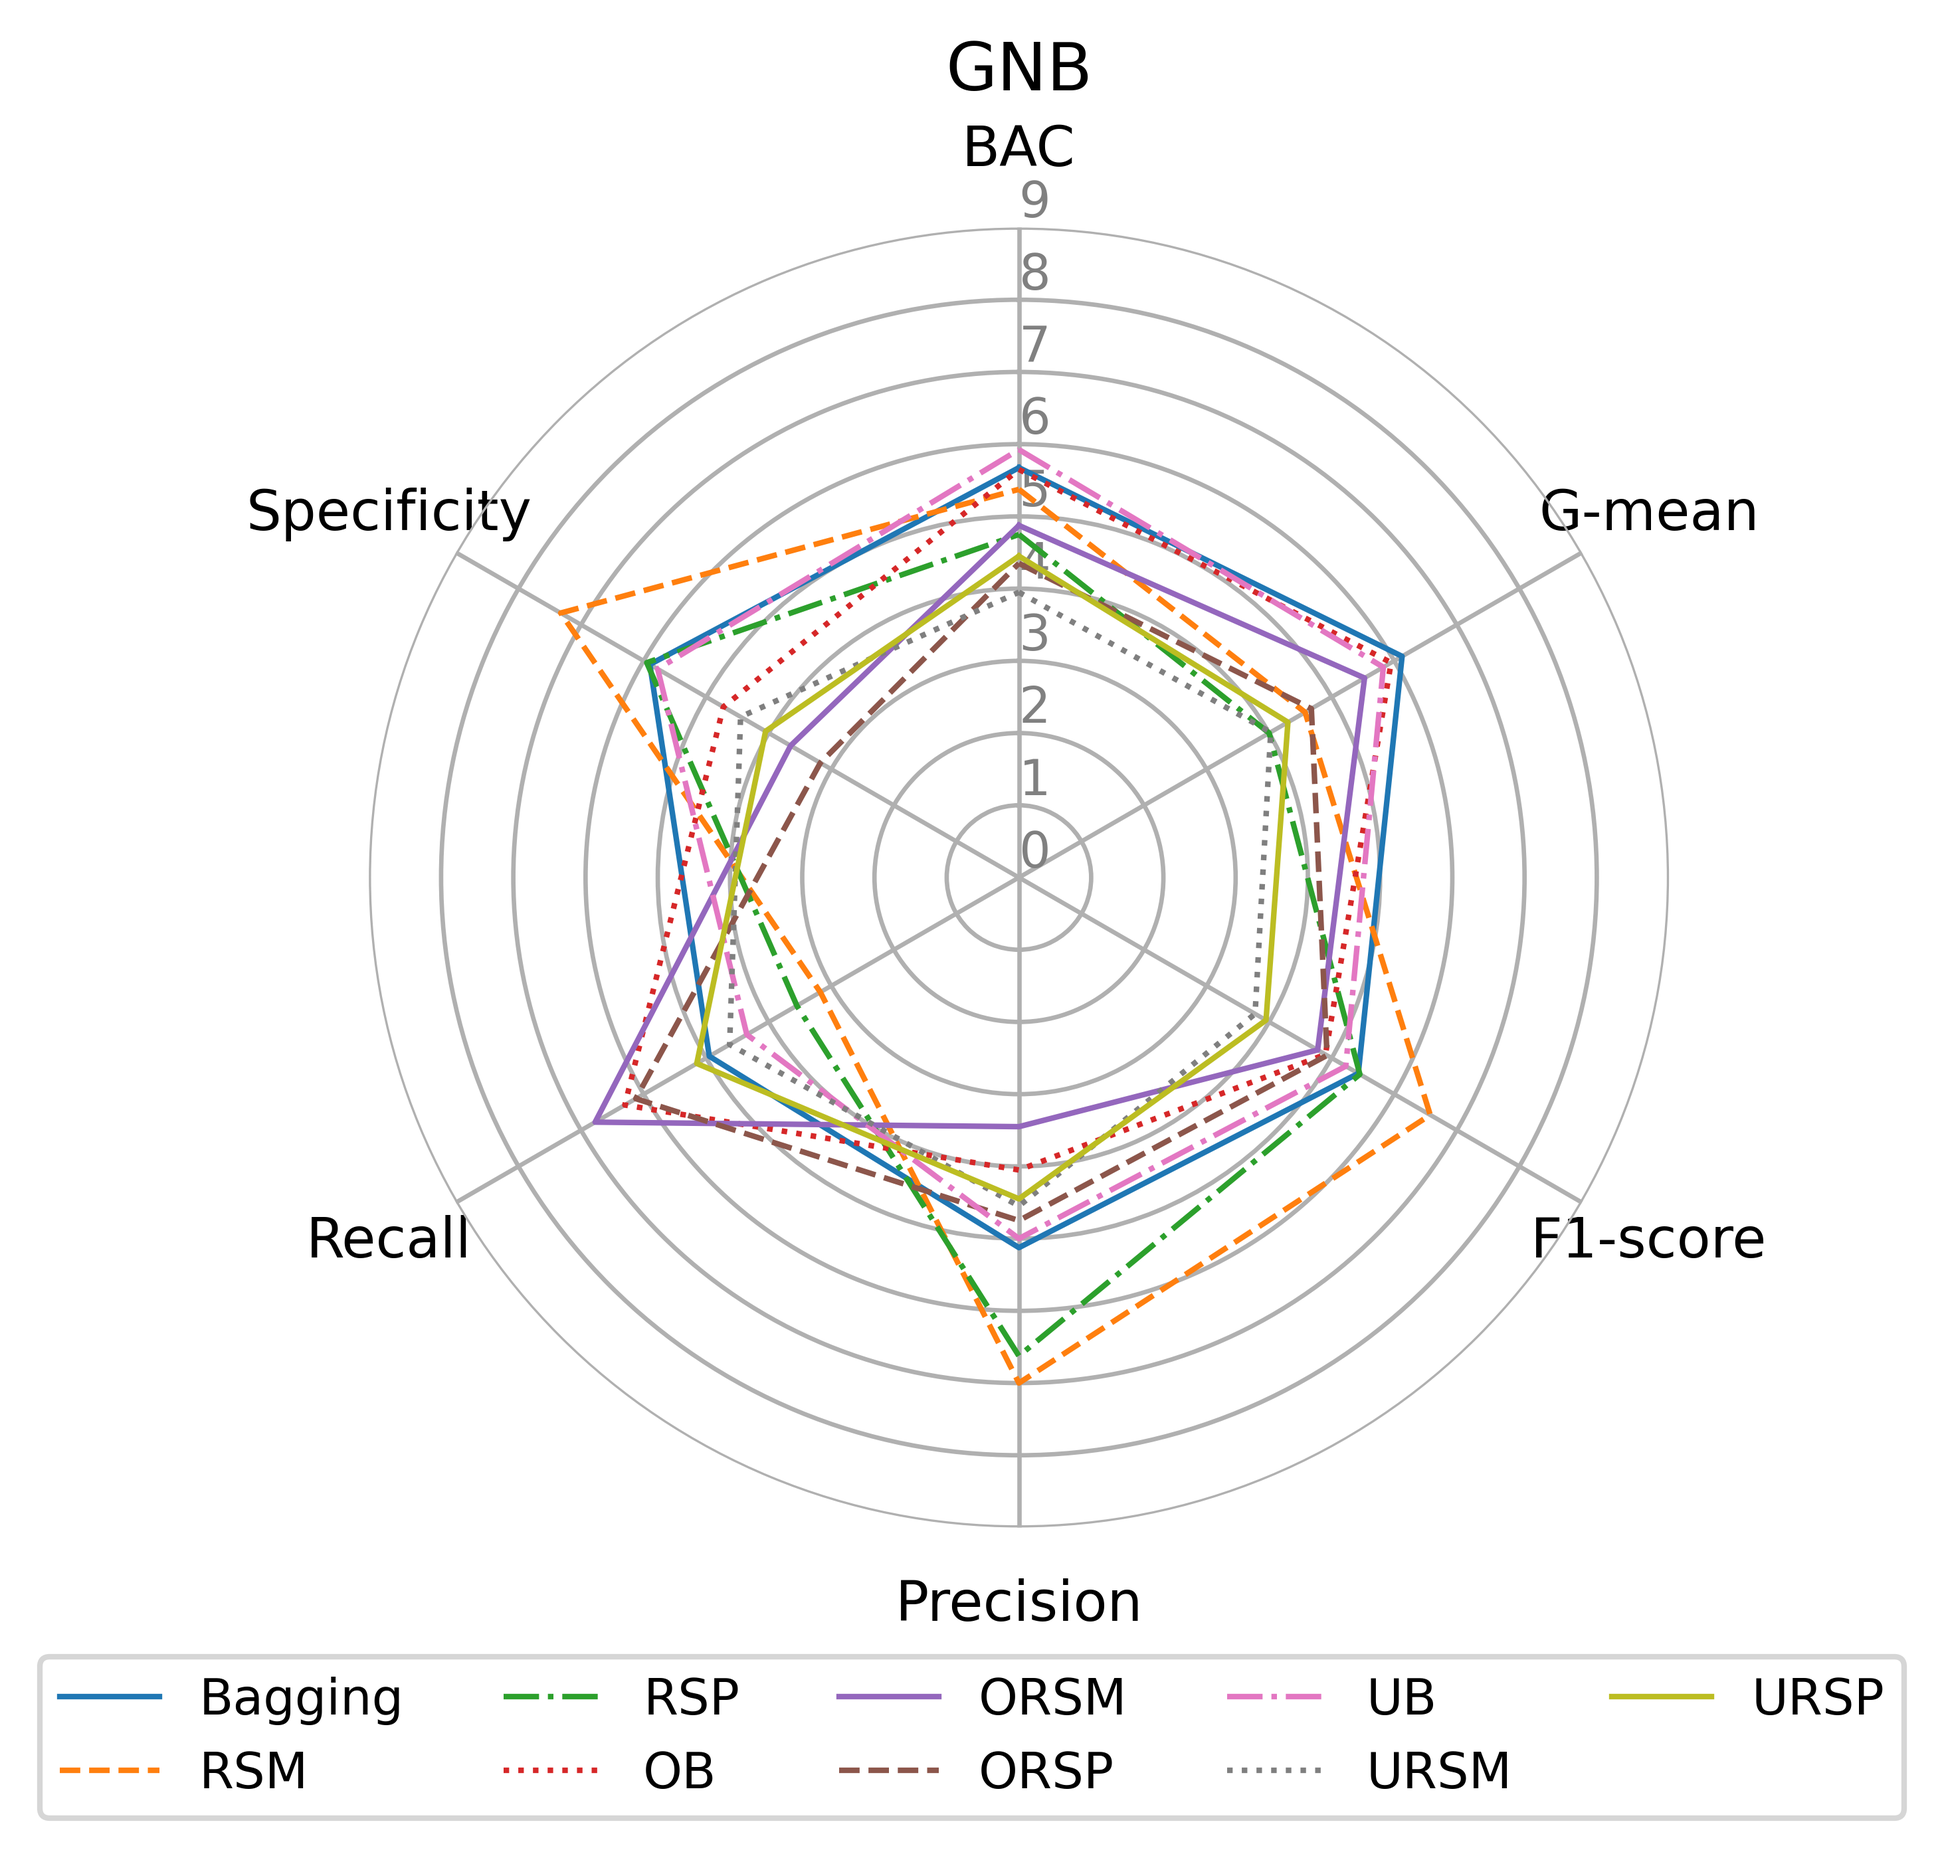
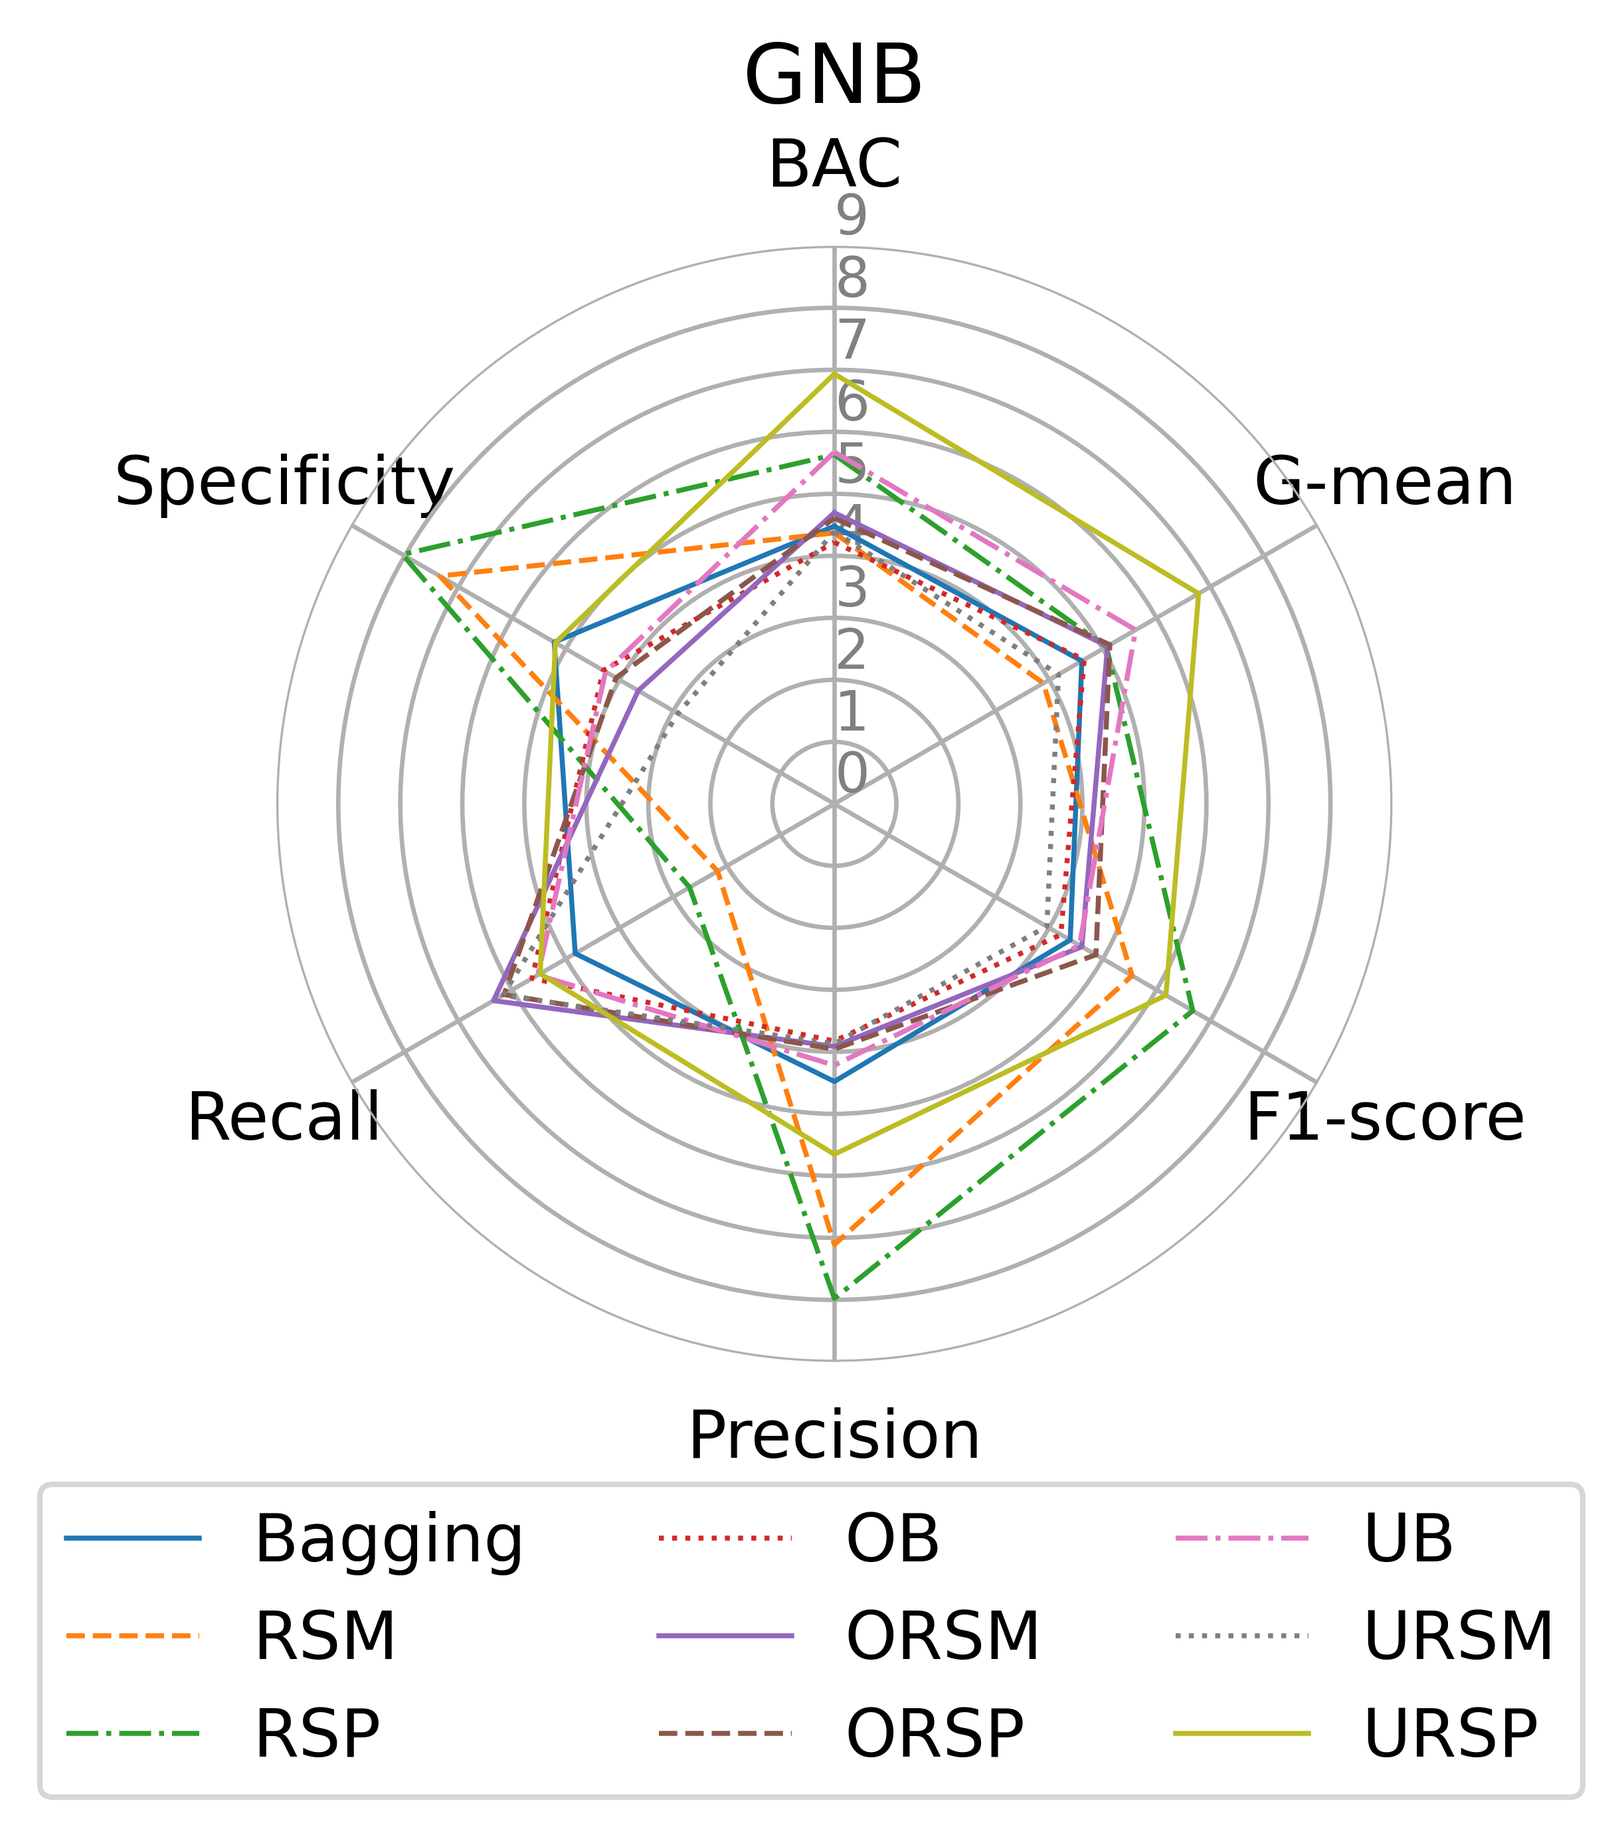
experiment 3

diff --git a/analysis/RadarGraph.py b/analysis/RadarGraph.py
@@ -5,7 +5,7 @@ import numpy as np
 clfs = ["Bagging", "RSM", "RSP", "OB", "ORSM", "ORSP", "UB", "URSM", "URSP"]
 metrics = ["BAC", "G-mean", "F1-score", "Precision", "Recall", "Specificity"]
 
-ranks = np.load("../results/ENSEMBLES/Ranks_KNN.npy")
+ranks = np.load("../results/ENSEMBLES-4/Ranks_CART.npy")
 mean_ranks = np.mean(ranks, axis=1)
 
 N = mean_ranks.shape[0]
@@ -18,14 +18,14 @@ ax.set_theta_direction(-1)
 ax.set_rlabel_position(0)
 ax.spines["polar"].set_visible(False)
 
-plt.xticks(angles[:-1], metrics)
-plt.yticks([0, 1, 2, 3, 4, 5, 6, 7, 8, 9], ["0", "1", "2", "3", "4", "5", "6", "7", "8", "9"], color="grey", size=9)
+plt.xticks(angles[:-1], metrics, fontsize=12)
+plt.yticks([0, 1, 2, 3, 4, 5, 6, 7, 8, 9], ["0", "1", "2", "3", "4", "5", "6", "7", "8", "9"], color="grey", size=10)
 plt.ylim(0,9)
-plt.title("kNN", loc="center")
+plt.title("CART", fontsize=15)
 
 # Line style
 ls = ["-", "--", "-.", ":", "-", "--", "-.", ":", "-", "--"]
-lw = [1, 1, 1, 1, 1, 1, 1, 1, 1, 1]
+lw = [0.9, 0.9, 0.9, 0.9, 0.9, 0.9, 0.9, 0.9, 0.9, 0.9]
 
 for method_id, method in enumerate(clfs):
     values = mean_ranks[:, method_id].tolist()
@@ -33,10 +33,10 @@ for method_id, method in enumerate(clfs):
     ax.plot(angles, values, linewidth=lw[method_id], linestyle=ls[method_id], label=method)
 
 # Legend
-plt.legend(bbox_to_anchor=(1.2, -0.08), ncol=5, fontsize=9)
+plt.legend(bbox_to_anchor=(1.2, -0.08), ncol=3, fontsize=12)
 plt.tight_layout()
 
 # Save image
-plt.savefig("../images/KNNEnsmblesRadar", dpi=600, bbox_inches='tight')
+plt.savefig("../images/CARTEnsmblesRadar", dpi=600, bbox_inches='tight')
 
 
